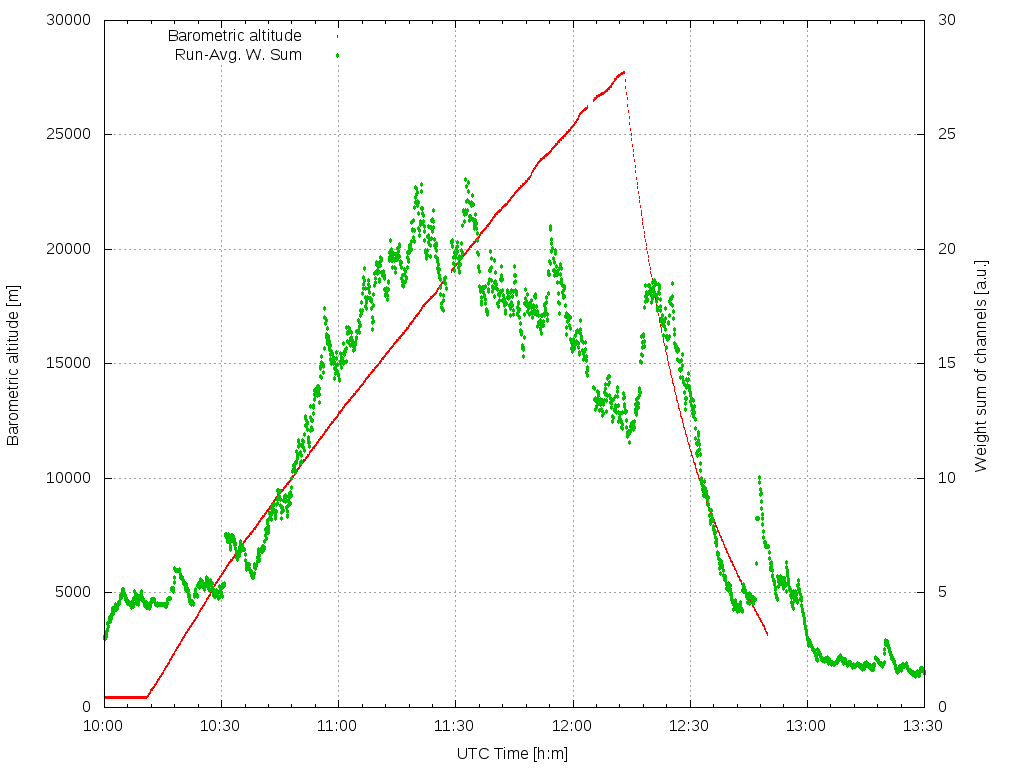
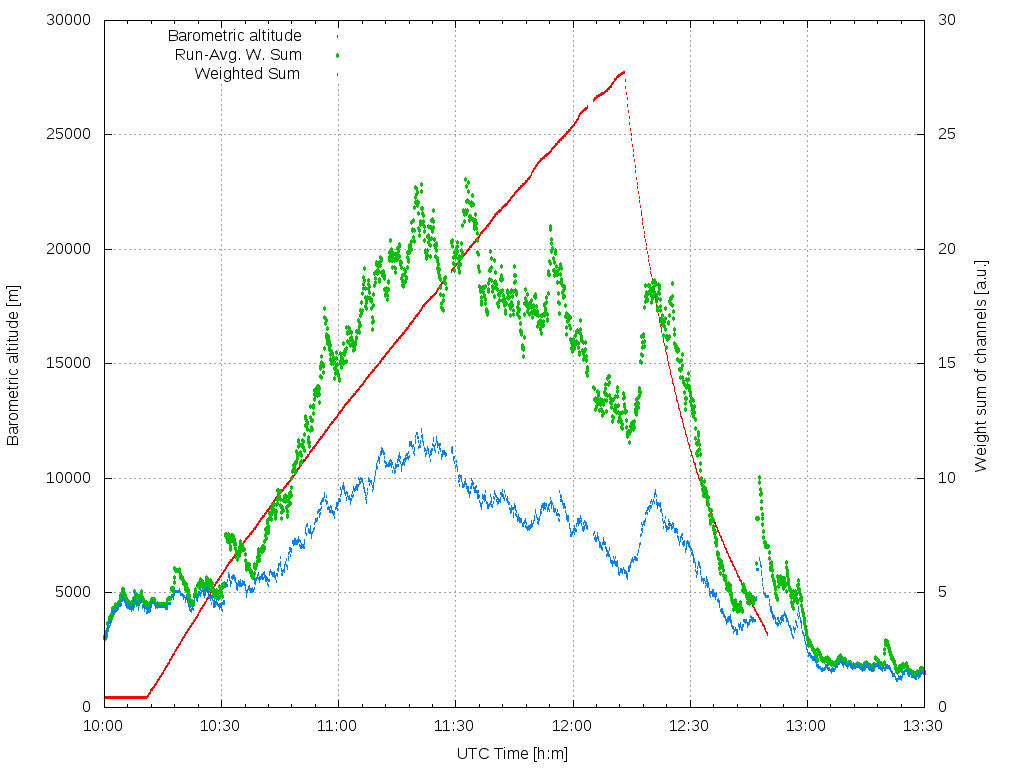
PCRD aggregation, part 2

diff --git a/data/151219_flight/1-alt-and-time/get_corrections.py b/data/151219_flight/1-alt-and-time/get_corrections.py
@@ -1,0 +1,42 @@
+#!/usr/bin/python
+import math
+import time
+import calendar
+import re
+
+oldrtccorrection = -1 
+rtccorrection = 0 
+with open('data_corrected.csv') as f:
+  for line in f:
+    list = line.split()
+    # If we have a GPS time fix
+    tre = re.match('(\d+:\d+:\d+)([.]?\d*)', str(list[1]))
+    if tre:
+      gpstimepart = tre.group(1)
+      gpstimestring = "19 12 2015 "+gpstimepart
+
+      try:
+        gpstimestruct = time.strptime(gpstimestring, "%d %m %Y %H:%M:%S")
+        #print "OK for " + timestring
+        gpsepoch = calendar.timegm(gpstimestruct)
+        rtcepoch = float(list[0])
+        rtccorrection = gpsepoch-rtcepoch
+        
+      except ValueError:
+        print "Fail for " + timestring
+    
+    try:
+      corrected_rtc = time.strftime('%H:%M:%S', time.gmtime(float(list[0])+rtccorrection))
+      list.insert(0, corrected_rtc) 
+    except ValueError:
+      list.insert(0, 'RTC_Corrected')
+      print '# Boot'
+
+    #print oldrtccorrection, rtccorrection
+
+    if math.fabs(oldrtccorrection - rtccorrection) > 0.01:
+      print rtccorrection
+      oldrtccorrection = rtccorrection
+    else: 
+      pass
+

diff --git a/data/151219_flight/2-pcrd/README.md b/data/151219_flight/2-pcrd/README.md
@@ -11,3 +11,4 @@ pcrd_final.csv, with UTC time as first column.
 Finally, impulse counts from channels were aggregated using aggregate_pcrd.py
 to pcrd_aggr.csv and plotted via Gnuplot (plt script).
 
+![Altitude and dose profile](alt-dose.png)
